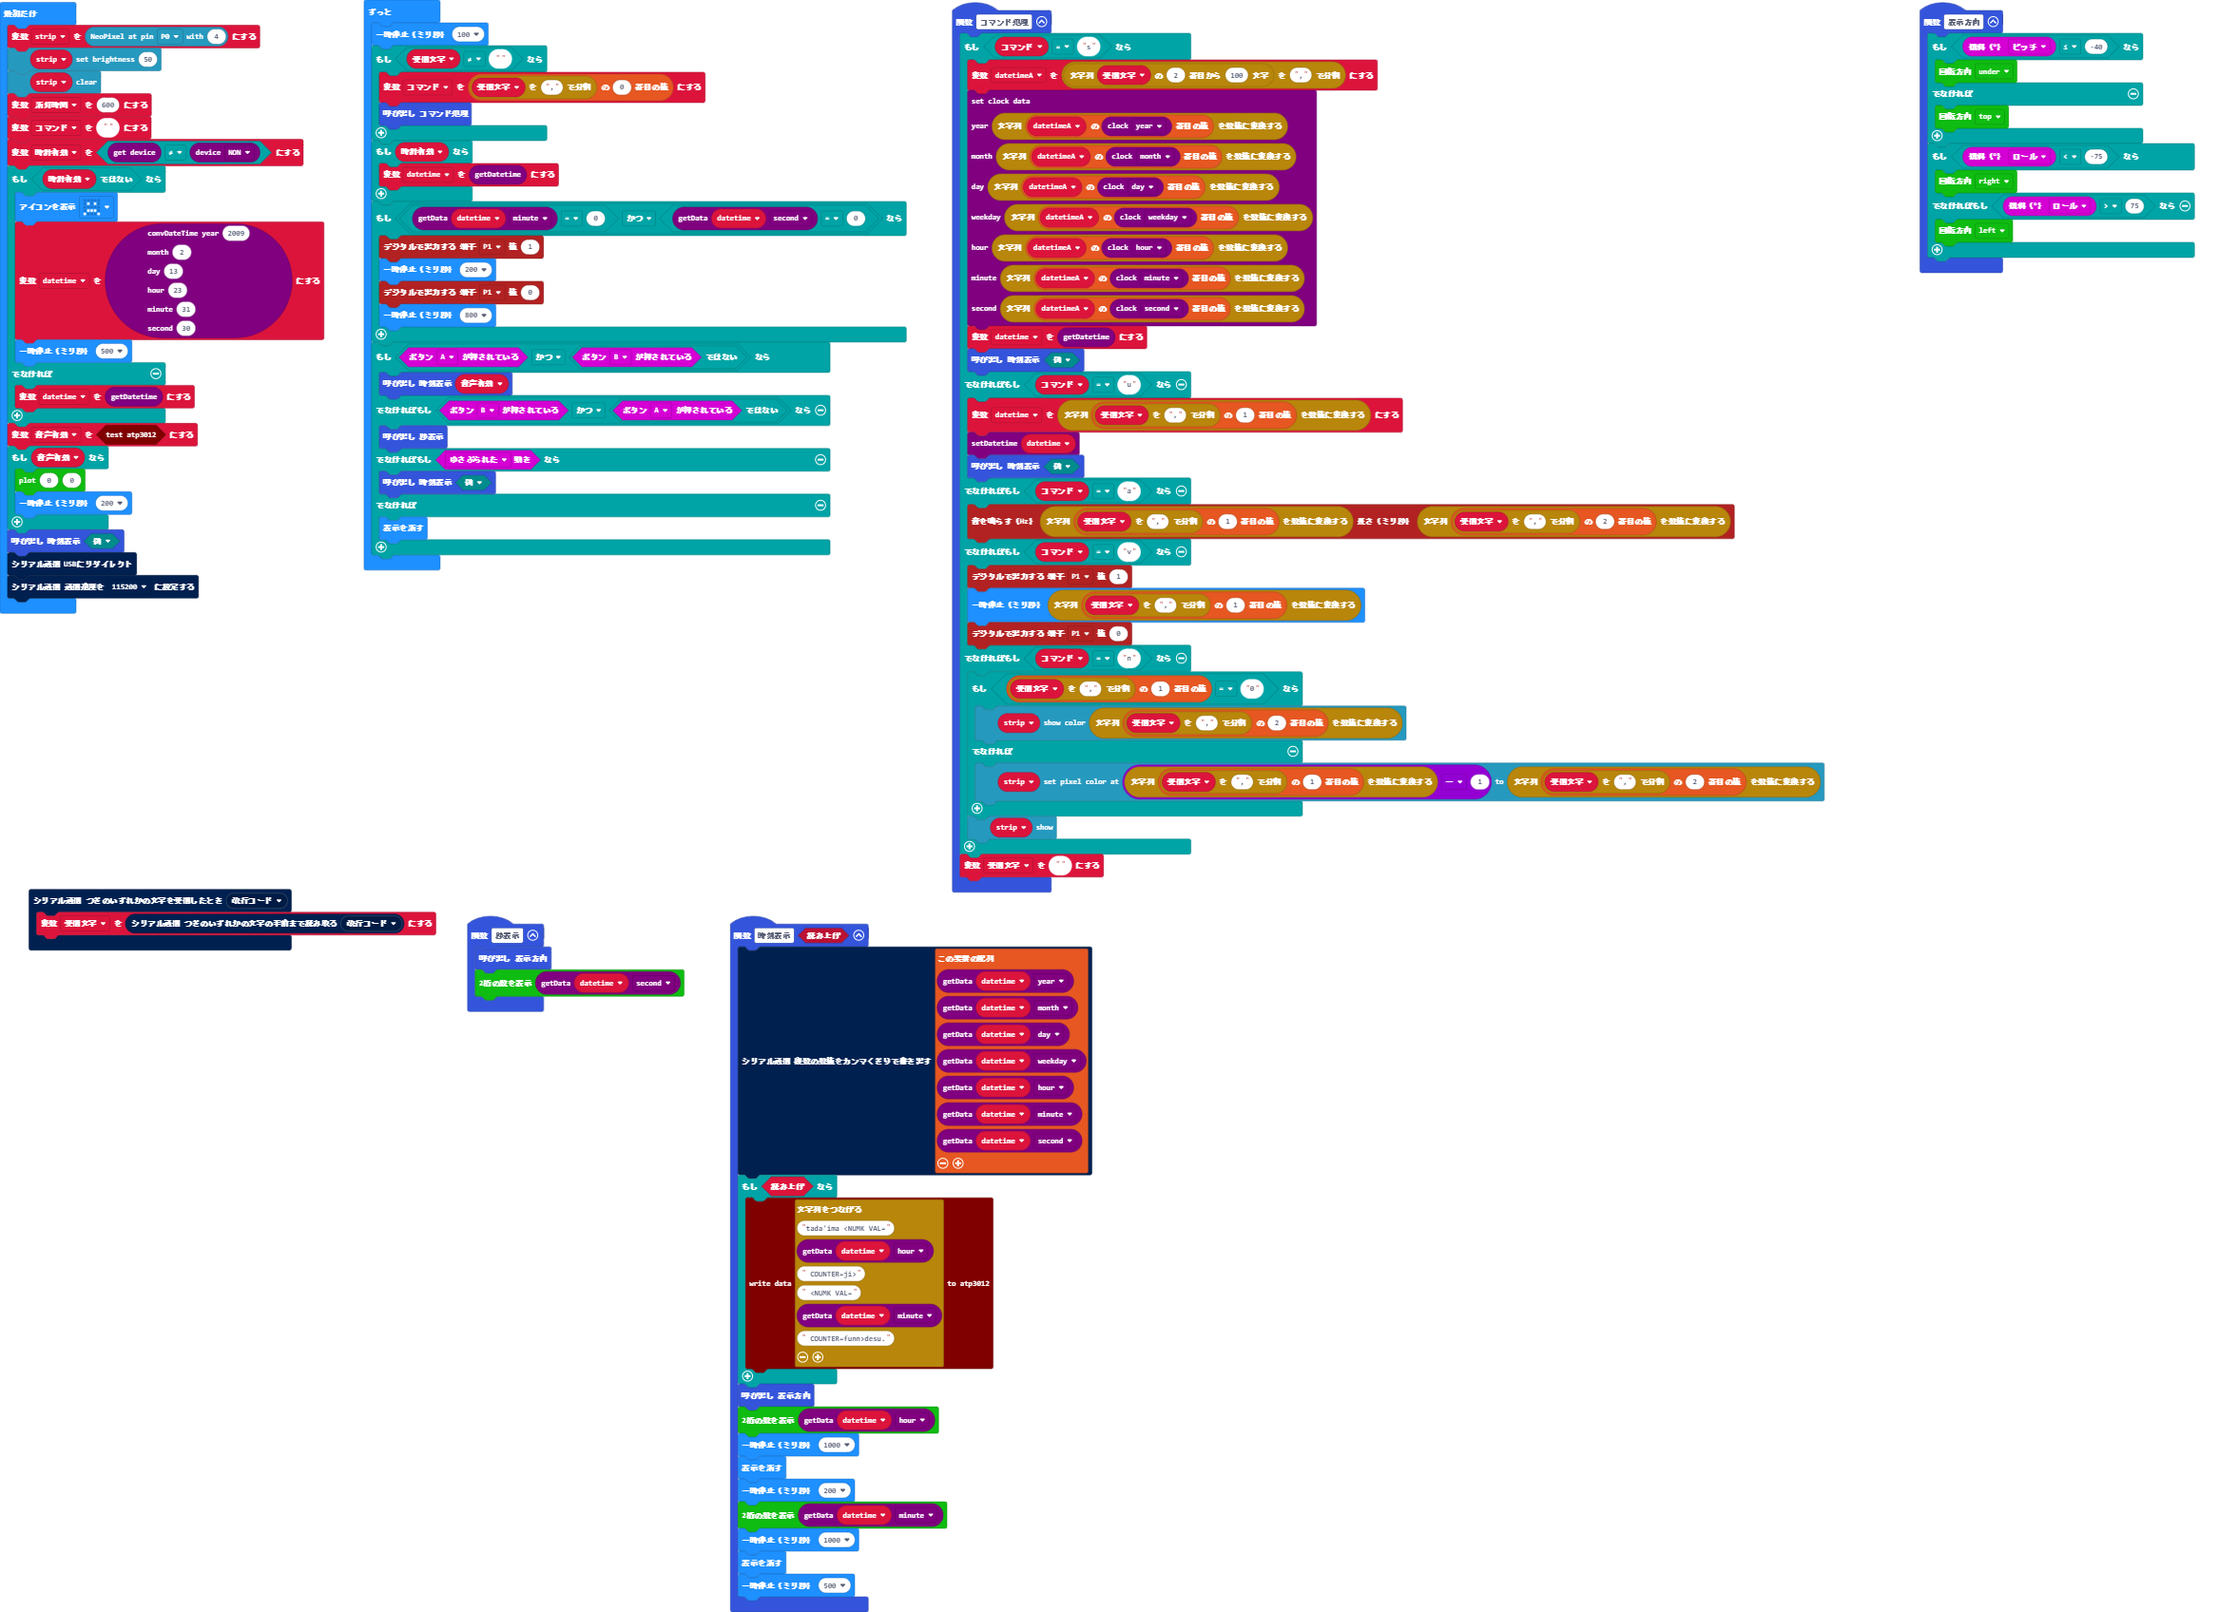
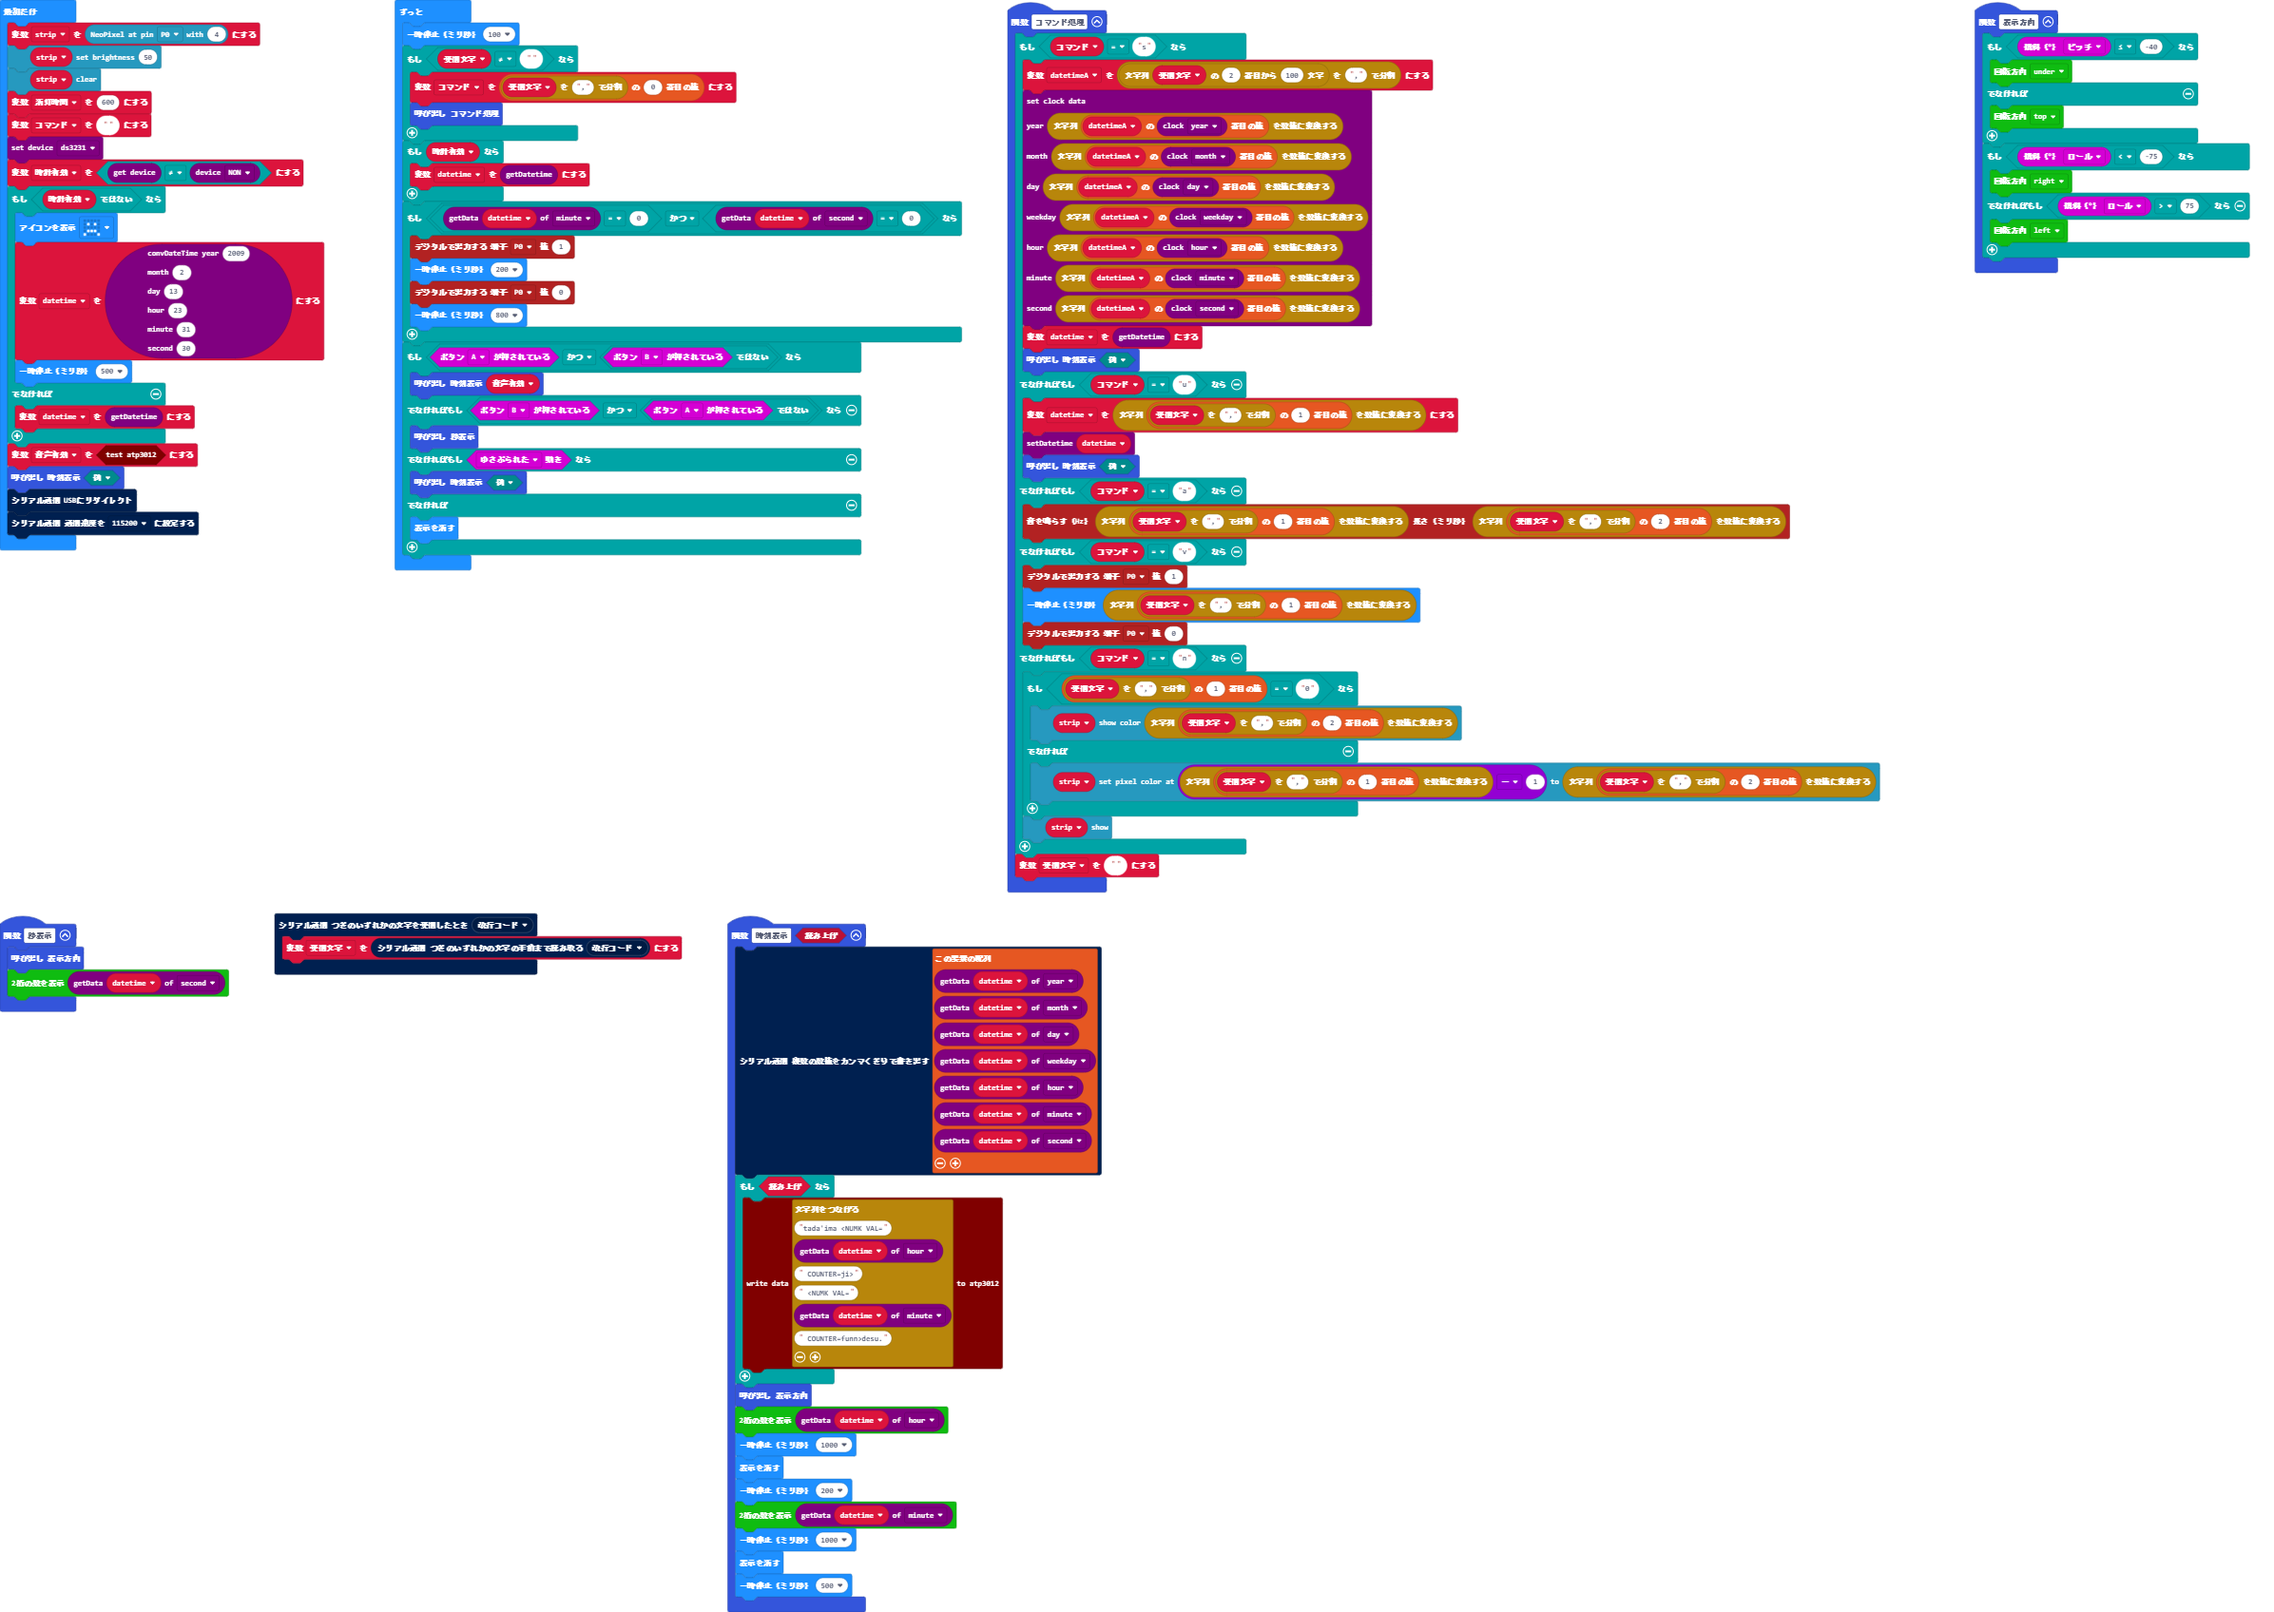
Update pxt.json, main.blocks, main.ts

Changed region(s): [[0.0, 0.0, 0.8329, 0.5625], [0.0, 0.5312, 0.4936, 1.0], [0.8638, 0.0, 0.9254, 0.1562]]

diff --git a/main.ts b/main.ts
@@ -22,9 +22,9 @@ function コマンド処理 () {
     } else if (コマンド == "a") {
         pins.analogPitch(parseFloat(受信文字.split(",")[1]), parseFloat(受信文字.split(",")[2]))
     } else if (コマンド == "v") {
-        pins.digitalWritePin(DigitalPin.P1, 1)
+        pins.digitalWritePin(DigitalPin.P0, 1)
         basic.pause(parseFloat(受信文字.split(",")[1]))
-        pins.digitalWritePin(DigitalPin.P1, 0)
+        pins.digitalWritePin(DigitalPin.P0, 0)
     } else if (コマンド == "n") {
         if (受信文字.split(",")[1] == "0") {
             strip.showColor(parseFloat(受信文字.split(",")[2]))
@@ -76,6 +76,7 @@ strip.setBrightness(50)
 strip.clear()
 let 消灯時間 = 600
 コマンド = ""
+rtc.setDevice(rtcType.ds3231)
 let 時計有効 = rtc.getDevice() != rtc.getClockDevice(rtcType.NON)
 if (!(時計有効)) {
     basic.showIcon(IconNames.Sad)
@@ -92,10 +93,6 @@ if (!(時計有効)) {
     datetime = rtc.getDatetime()
 }
 let 音声有効 = atp3012.isAvalable()
-if (音声有効) {
-    watchfont.plot(0, 0)
-    basic.pause(200)
-}
 時刻表示(false)
 serial.redirectToUSB()
 serial.setBaudRate(BaudRate.BaudRate115200)
@@ -109,9 +106,9 @@ basic.forever(function () {
         datetime = rtc.getDatetime()
     }
     if (rtc.getData(datetime, clockData.minute) == 0 && rtc.getData(datetime, clockData.second) == 0) {
-        pins.digitalWritePin(DigitalPin.P1, 1)
+        pins.digitalWritePin(DigitalPin.P0, 1)
         basic.pause(200)
-        pins.digitalWritePin(DigitalPin.P1, 0)
+        pins.digitalWritePin(DigitalPin.P0, 0)
         basic.pause(800)
     }
     if (input.buttonIsPressed(Button.A) && !(input.buttonIsPressed(Button.B))) {
